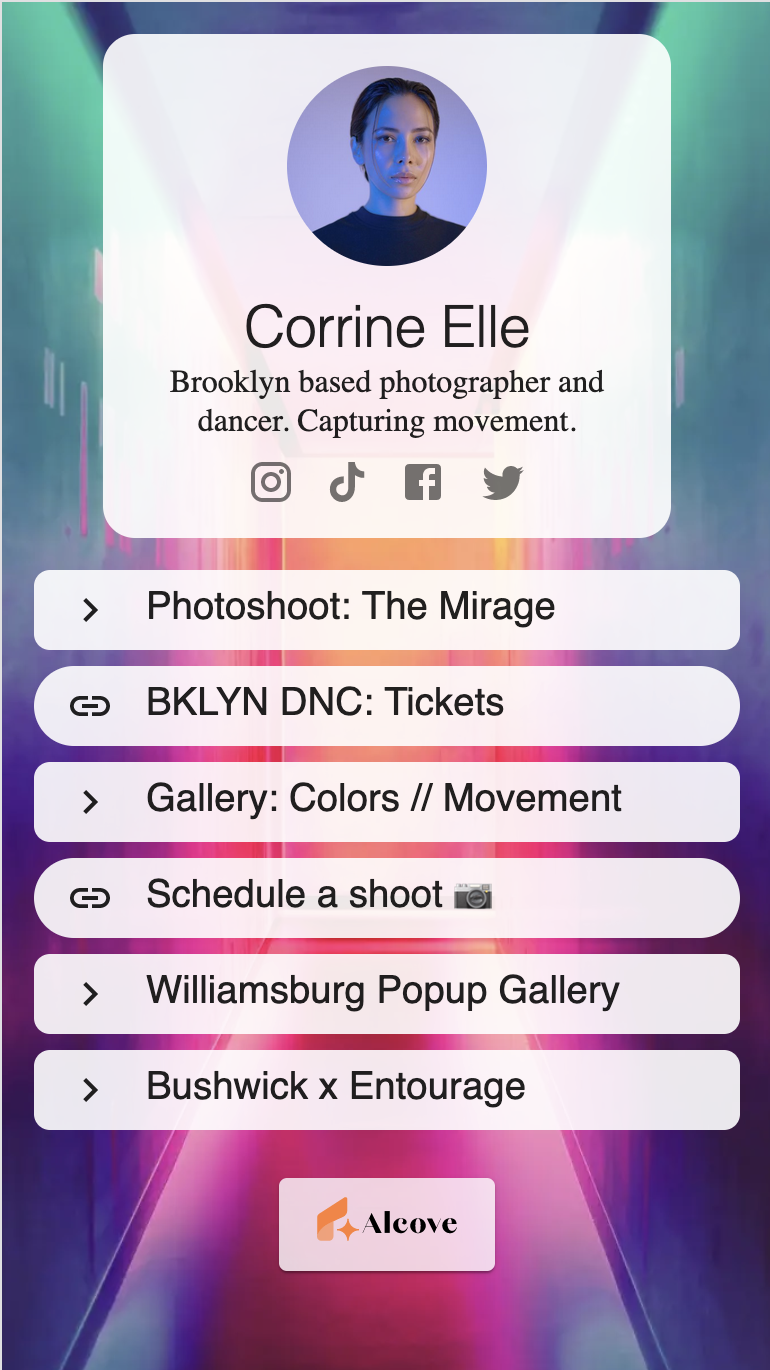
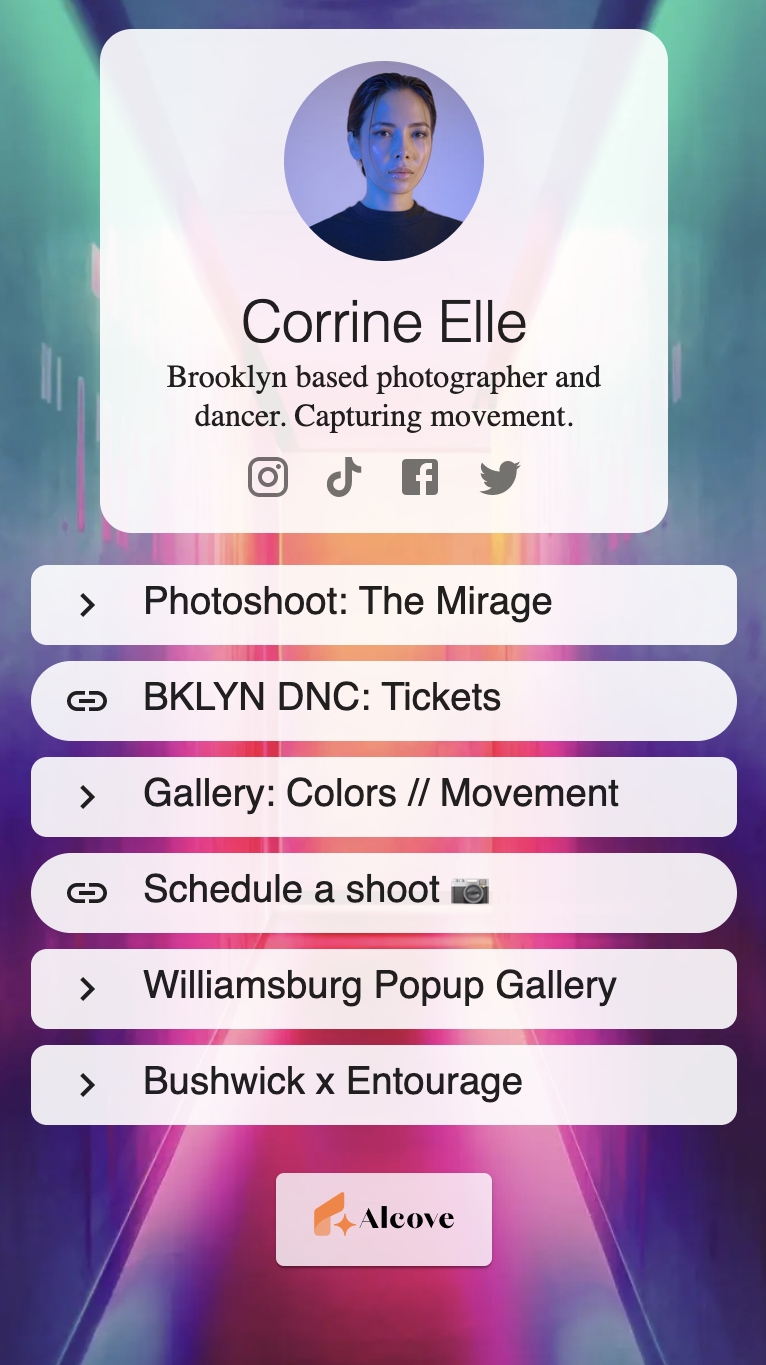
full redesign of home

diff --git a/components/home/Home.js b/components/home/Home.js
@@ -59,28 +59,24 @@ export default function Home() {
 
   const mobileLayout = (
     <Stack alignItems="center">
+      <Navbar mobile={isTabletOrMobile} />
       <CallToAction textColor={textColor} highlightColor={theme.textColor} mobile={true} />
-      <Hero desktop={true} />
+      <Hero desktop={false} />
       <div style={{ padding: "0.5rem" }}></div>
       <SignUp signupState={signupState} setSignupState={setSignupState} claimButtonStyle={claimButtonStyle} />
-      {/* {!signupState.completed && <Link href="/login"><Button variant="outlined" style={{ color: 'white', borderColor: 'white' }}>Sign In</Button></Link>} */}
-      <Typography variant="subtitle2" style={{color: 'white'}}> Already have an account? Login <Link style={{color: 'white'}} href="/login">here</Link>.</Typography>
+    
+      <Typography variant="subtitle2" style={{ color: 'white' }}> Already have an account? Login <Link style={{ color: 'white' }} href="/login">here</Link>.</Typography>
     </Stack>
   )
 
   const desktopLayout = (
-    <Stack style={{ marginTop: "0rem" }} direction="row" spacing={isLarge ? 10 : 6} alignItems="start" justifyContent="start">
-      <Hero desktop={true} width={isReallyLarge ? 300 : isLarge ? 270 : 250} style={{ paddingBottom: "3rem" }} />
-      <Stack style={{ marginTop: "5rem" }} spacing={3}>
+    <Stack style={{ marginTop: "0rem" }} direction="row" spacing={4} alignItems="start" justifyContent="start">
+      <Hero desktop={true} />
+      <Stack style={{ marginTop: "1rem" }} spacing={3}>
+        <Navbar mobile={isTabletOrMobile} />
         <CallToAction textColor={textColor} highlightColor={theme.textColor} textAlign="start" fontSize={isLarge ? "3.2rem" : "2.5rem"} />
         <SignUp signupState={signupState} setSignupState={setSignupState} desktop={!isTabletOrMobile} claimButtonStyle={claimButtonStyle} />
-        <Typography style={{color: 'white'}}> Already have an account? Login <Link style={{color: 'white'}} href="/login">here</Link>.</Typography>
-        {/* {!signupState.completed && <Stack alignItems="center" spacing={1}>
-          <Divider style={{ borderColor: 'white', width: '100%', marginTop: '2rem', marginBottom: '1rem' }} />
-          <Typography style={{ color: 'white' }} variant="body2">Already have an account?</Typography>
-          <Link href="/login"><Button variant="outlined" style={{ textTransform: 'none', color: 'white', borderColor: 'white', maxWidth: '150px', margin: 'auto', marginTop: '1rem' }}>Login</Button></Link>
-        </Stack>} */}
-
+        <Typography style={{ color: 'white' }}> Already have an account? Login <Link style={{ color: 'white' }} href="/login">here</Link>.</Typography>
       </Stack>
     </Stack>
   )
@@ -104,9 +100,8 @@ export default function Home() {
         <link rel="icon" href="/favicon.svg" />
       </Head>
 
-      <main style={{ backgroundColor, minHeight: '100vh', width: "100%" }}>
-        <Navbar mobile={isTabletOrMobile}/>
-        <Stack alignItems="center" style={{ paddingBottom: '3rem' }}>
+      <main style={{ backgroundColor, minHeight: isTabletOrMobile ? '140vh' : '100vh', width: "100%" }}>
+        <Stack alignItems="center" style={{ paddingBottom: '3rem', height: '100vh' }}>
           {minQueriesComplete && (isTabletOrMobile ? mobileLayout : desktopLayout)}
         </Stack>
       </main>

diff --git a/components/home/Hero.js b/components/home/Hero.js
@@ -5,11 +5,37 @@ import 'react-image-shadow/assets/index.css';
 import "react-responsive-carousel/lib/styles/carousel.min.css"; // requires a loader
 import { Carousel } from 'react-responsive-carousel';
 import Image from 'next/image';
-export default function Hero({width=220, desktop}) {
-    const perspective = "none" // desktop ? "perspective(400px) rotateY(3deg) rotateX(5deg)" : "perspective(400px) rotateY(-3deg) rotateX(3deg)"
-  return (
-   <Carousel showArrows={false} showIndicators={false} showStatus={false} showThumbs={false} show>
+import { Stack } from '@mui/material';
 
-   </Carousel>
+export default function Hero({ desktop }) {
+  const perspective = "none" // desktop ? "perspective(400px) rotateY(3deg) rotateX(5deg)" : "perspective(400px) rotateY(-3deg) rotateX(3deg)"
+
+  const profilesToShow = [
+    "/home/theartist.png",
+    "/home/thefoodie.png",
+    "/home/thehacker.png",
+    "/home/theoutdoors.png",
+    "/home/thebaker.png"
+  ]
+
+  const containerStyle = desktop ? {marginTop: '1rem', height: "100vh", width: '410px'} : {padding: '0.5rem', marginBottom: '4rem', width: '100%'}
+  const imageShadowStyle = desktop ? {margin: '2rem' } : {}
+
+  const buildCarouselItems = () => {
+    return profilesToShow.map((profile) => {
+      return (
+        <Stack key={profile} style={containerStyle}>
+          <ImageShadow shadowBlur={20} width={desktop ? 340 : "70%"} style={imageShadowStyle} shadowHover={desktop} src={profile} />
+        </Stack>
+      )
+    })
+  }
+  return (
+    <div style={{ height: desktop ? '100vh' : '100%'}}>
+      <Carousel axis={desktop ? "vertical" : "horizontal"} showArrows={false} infiniteLoop={true} interval={2800} autoPlay={true} showIndicators={false} showStatus={false} showThumbs={false} centerMode={true} dynamicHeight={false} >
+        {buildCarouselItems()}
+      </Carousel>
+    </div>
+
   )
 }

diff --git a/components/home/Navbar.js b/components/home/Navbar.js
@@ -19,7 +19,7 @@ export default function Navbar({mobile}) {
     const logoColor = theme.logoColor
     const textColor = theme.textColor
     return (
-        <Stack alignItems="center" style={{ paddingBottom: '3rem' }}>
+        <Stack alignItems="start" style={{ paddingBottom: mobile ? '1rem' : '3rem' }}>
             <Stack id="home-logo" direction="row" spacing={0.5} alignItems="center" style={{ padding: "1rem", marginTop: "0.5rem" }}>
                 <Image src="/alcove-logo.svg" width={mobile ? 200 : 250} height={mobile ? 50 : 80} alt="Alcove logo" />
                 {/* <h1 className={amita.className} style={{ fontWeight: 700, color: logoColor }} variant="h1">alcove</h1> */}
